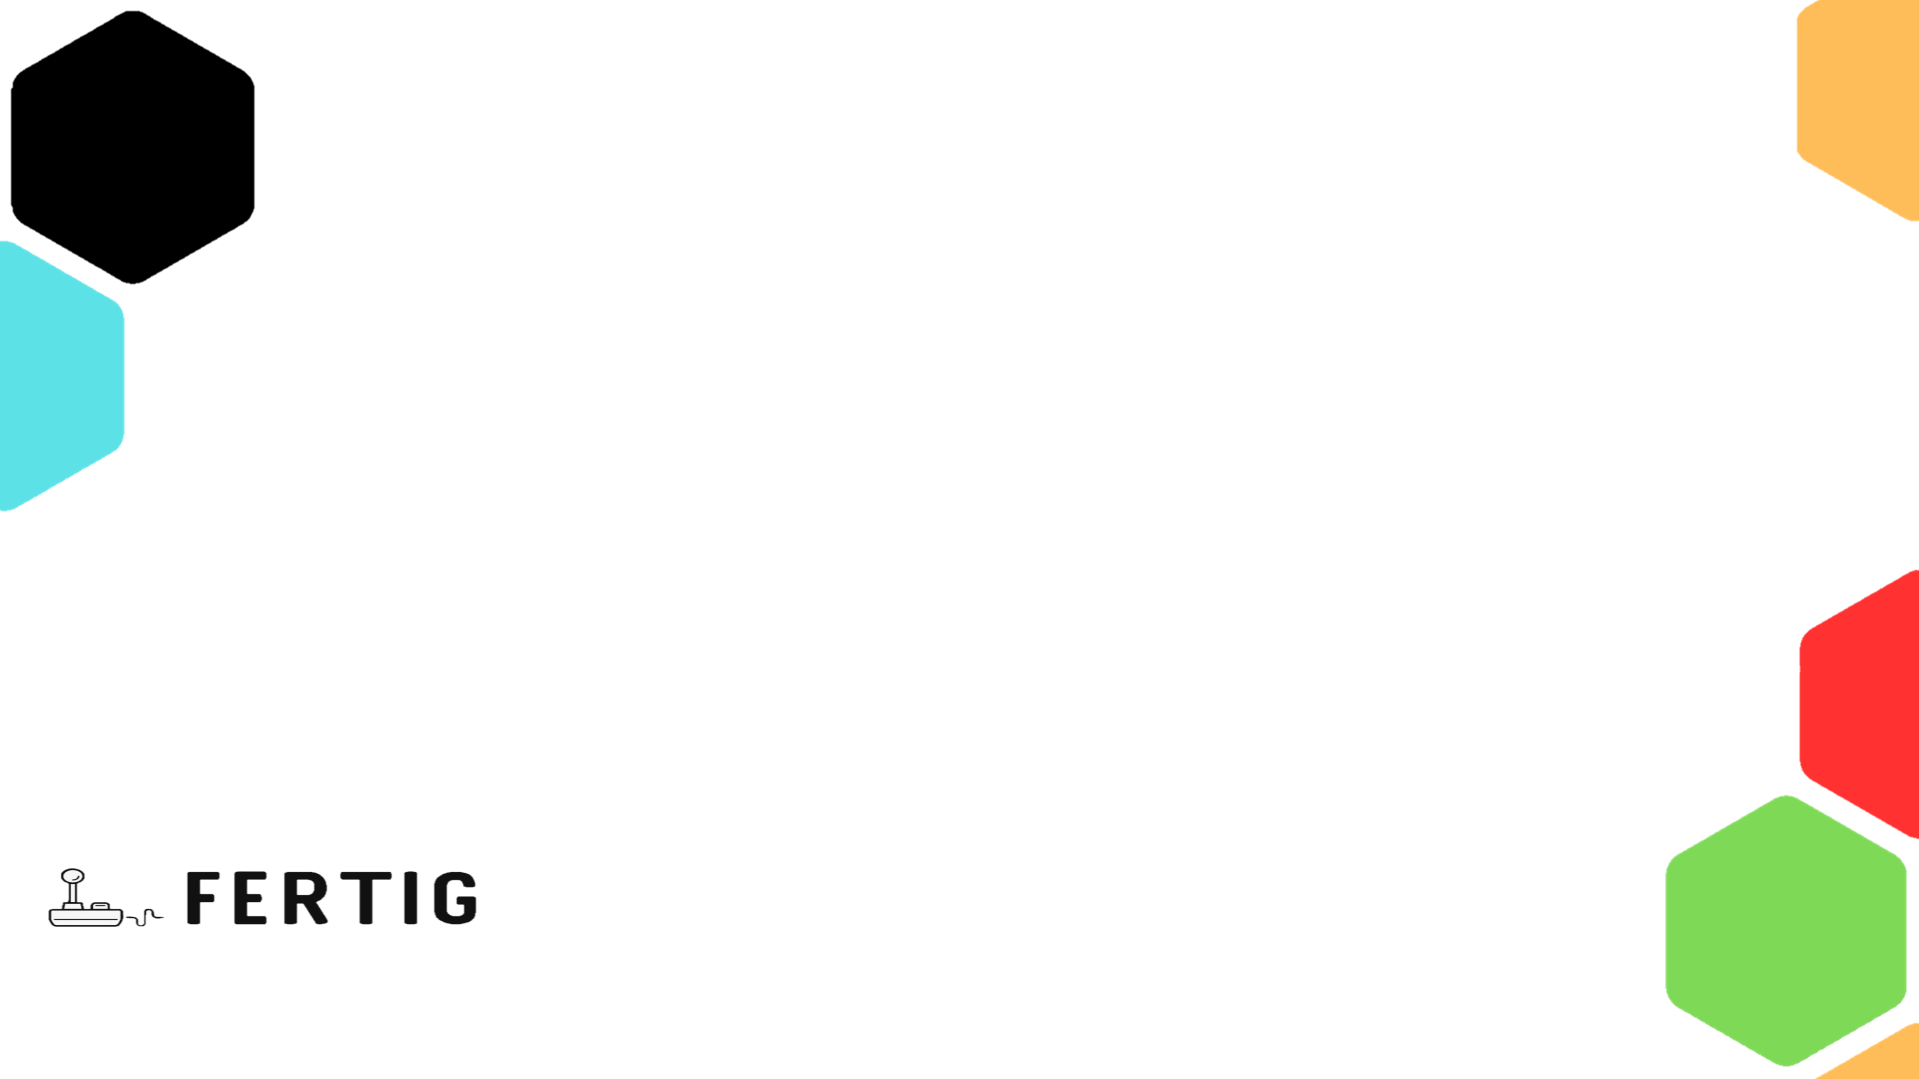
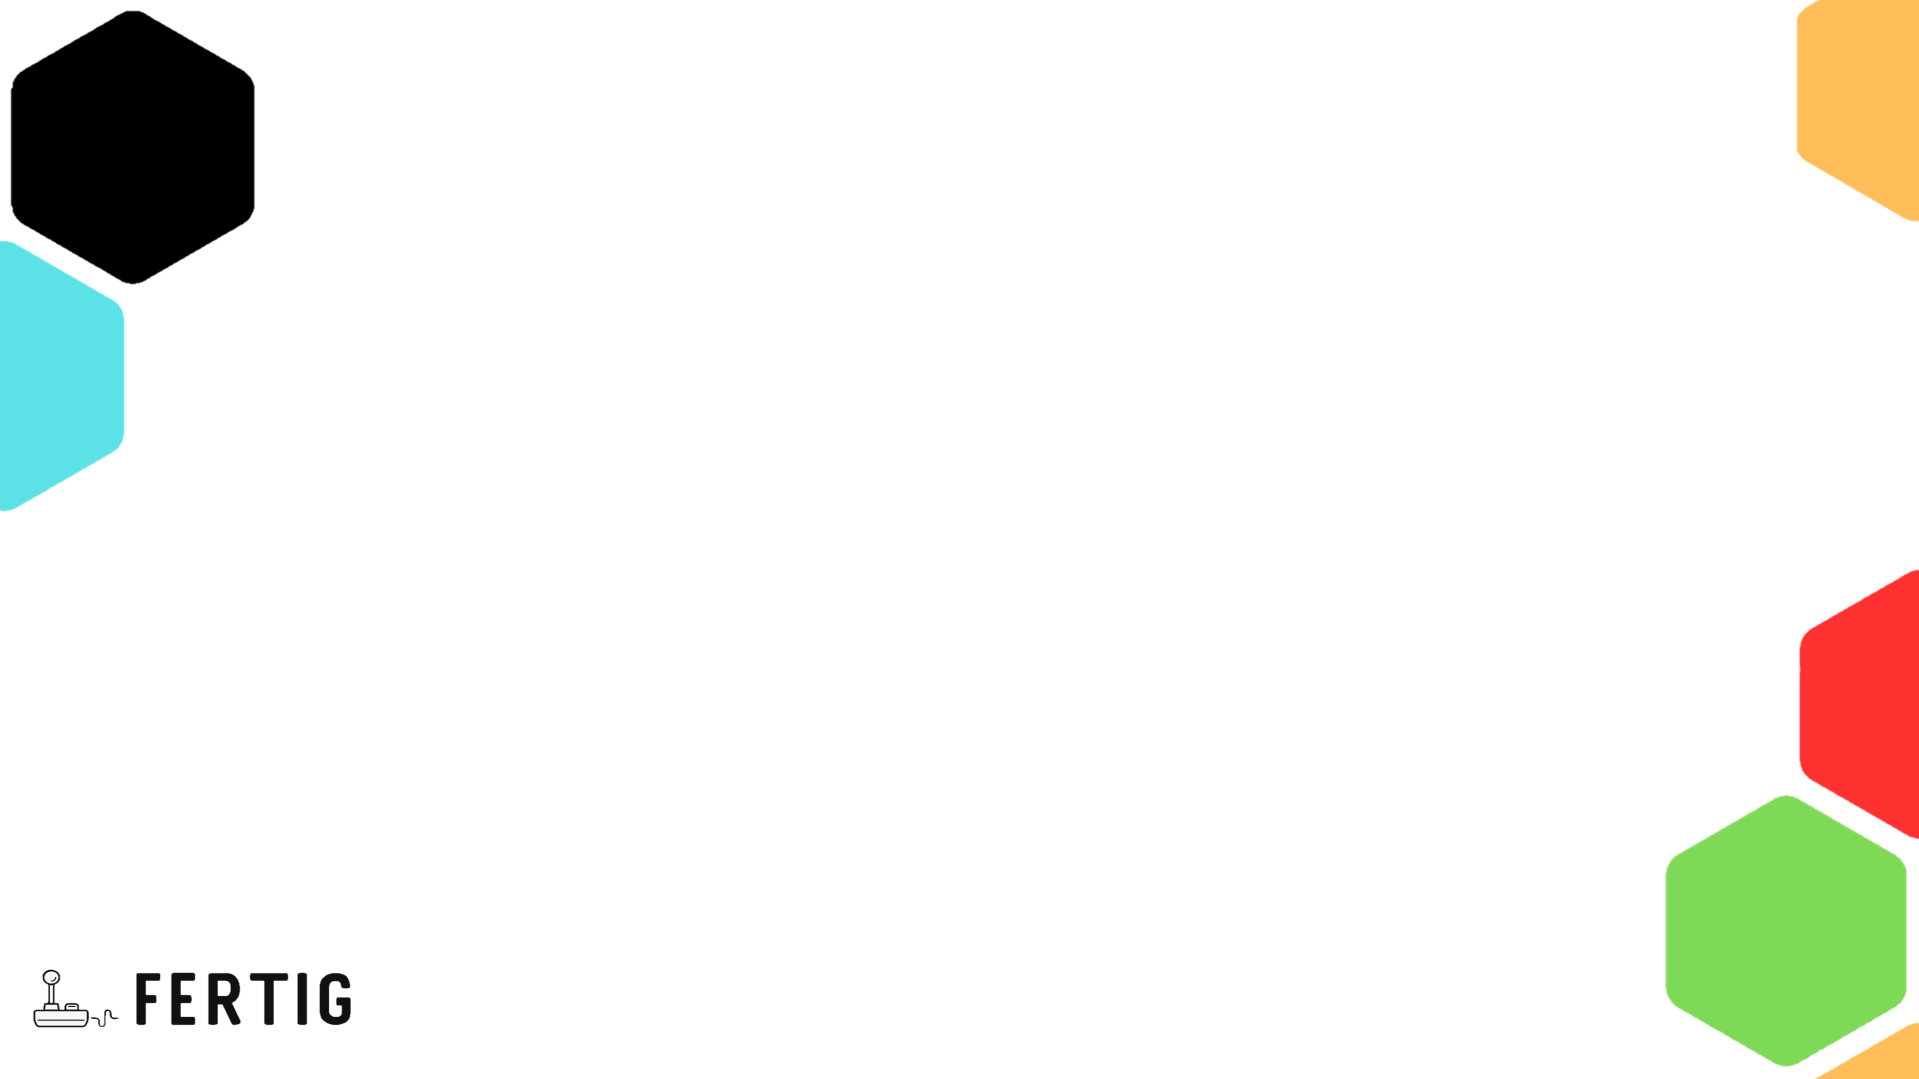
padding bottom perfect

Changed region(s): [[0.0307, 0.7952, 0.246, 0.8563], [0.0, 0.8869, 0.1845, 0.9481]]

diff --git a/Pages/PageIrulan.html b/Pages/PageIrulan.html
@@ -36,19 +36,16 @@
 							<img src="../Static/irulanc.png" alt="Irulan">
 						</div></td>
     					<td><h1>Je m'appelle Irulan Sanz et je suis la Directrice Artistique de FERTIG.
-							Durant un an, je vais participer au développement du premier jeu de notre
-							startup : Olympus Tribute. Mon rôle consiste à définir la vision artistique
+							Mon rôle consiste à définir la vision artistique
 							du jeu et à garantir que chaque élément visuel contribue à une expérience
 							immersive et captivante pour les joueurs.</h1></td>
 					
 				</table>
 
 			<h3>Compétences et points forts</h3>
-			<p>Parmi mes qualités, je mets en avant ma créativité, qui me permet d'imaginer des concepts et des mon-
-				des originaux et captivants, ainsi que mon sens du détail, essentiel pour assurer une cohérence esthétique
-				tout au long du projet. Bien que cela puisse sembler basique, ces compétences restent au cœur de mon
-				approche artistique. De plus, mes années en tant qu'ancienne modélisatrice m'ont permis d'acquérir des
-				bases solides sur Blender, logiciel que nous utiliserons pour notre jeu.</p>
+			<p>Parmi mes qualités, je mets en avant ma créativité, qui me permet d'imaginer des concepts et des mondes 
+				originaux et captivants, ainsi que mon sens du détail, essentiel pour assurer une cohérence esthétique
+				tout au long du projet.</p>
 
 			<h3>Expérience</h3>
 			<p>En tant qu'ancienne modélisatrice, j'ai eu l'occasion de travailler sur plusieurs projets de jeux vidéo,
@@ -58,11 +55,8 @@
 
 			<h3>Objectifs pour le projet</h3>
 			<p>Mon principal objectif est de créer une identité visuelle forte et mémorable pour notre jeu. Afin de
-				garantir que l'univers d'Olympus Tribute soit `a la fois esthétique et immersif, je m'intéresse et travaille
-				étroitement avec mes collègues sur le sound design et le développement. De fait, je suis convaincue que
-				la créativité s'épanouit dans un environnement collaboratif, où chacun se sent libre de partager ses idées
-				et de contribuer à la vision collective. En favorisant cette dynamique avec mes collègues, nous pourrons
-				enrichir l'expérience de jeu de manière significative.</p>
+				garantir que l'univers d'Olympus Tribute soit à la fois esthétique et immersif, je m'intéresse et travaille
+				étroitement avec mes collègues sur le sound design et le développement.</p>
 		</header>
 	
 		

diff --git a/CSS/Menus.css b/CSS/Menus.css
@@ -1,3 +1,7 @@
+html {
+	background-image: url(../Static/fond_menu.png);
+	background-size : 100% 100%;
+}
 body {
 	font-family: Garamond;
 	display: flex;
@@ -5,7 +9,7 @@ body {
 	height: 100vh;
 	background-color: white;
 	margin: 0;
-	overflow: hidden;
+	padding-bottom: 10%;
 	
 }
 
@@ -71,20 +75,6 @@ header img {
 	max-height: 150%;
 }
 
-
-footer {
-	display: flex;
-	justify-content: flex-start;
-	align-items: center;
-	padding-left: 15px;
-	padding-top: 35px;
-	height: 18%;
-	margin-top: auto; /* Permet de garder le footer au bas de la page */
-  }
-  
-  footer img {
-	max-height: 100%;
-  }
 
 a {
     text-decoration: none;

diff --git a/Pages/PageFanny.html b/Pages/PageFanny.html
@@ -36,7 +36,7 @@
 							<img src="../Static/fannyc.png" alt="Fanny">
 						</div></td>
     					<td><h1>Je m'appelle Fanny Zhu et je suis la Sound Designer de ce projet. Mon rôle
-							consiste à créer un univers sonore riche en harmonie avec le th`eme de notre
+							consiste à créer un univers sonore riche en harmonie avec le thème de notre
 							jeu.</h1></td>
 					
 				</table>

diff --git a/CSS/Spe.css b/CSS/Spe.css
@@ -59,14 +59,13 @@ header {
 	padding-top: 3%;
 	padding-left: 35%; 
 	padding-right: 13%;
-	padding-bottom: 0%;
+	padding-bottom: 42%;
 }
 
 h1{
 	font-size: 18pt;
-	padding-left: 11%;
-	padding-right: 22%;
-	line-height: 1.4;
+	padding-left: 1%;
+	line-height: 1.15;
 }
 h3{
 	font-size: 18pt;
@@ -78,7 +77,7 @@ p{
 
 
 table{
-	padding-bottom: 3%;
+	padding-bottom: 0%;
 }
 .photos img {
 

diff --git a/index.html b/index.html
@@ -33,10 +33,7 @@
 		<header>
 			<img src="Static/Logo olypus tribute.png" alt="Logo du Jeu">
 		</header>
-	
-		<footer>
-			<img src="Static/logoentreprise.png" alt="Logo de l'entreprise">
-		</footer>
+
 	</body>
-	</html>
+</html>
 	

diff --git a/CSS/text.css b/CSS/text.css
@@ -59,7 +59,7 @@ header {
 	padding-top: 3%;
 	padding-left: 35%; 
 	padding-right: 13%;
-	padding-bottom: 0%;
+	padding-bottom: 41%;
 }
 
 h1{
